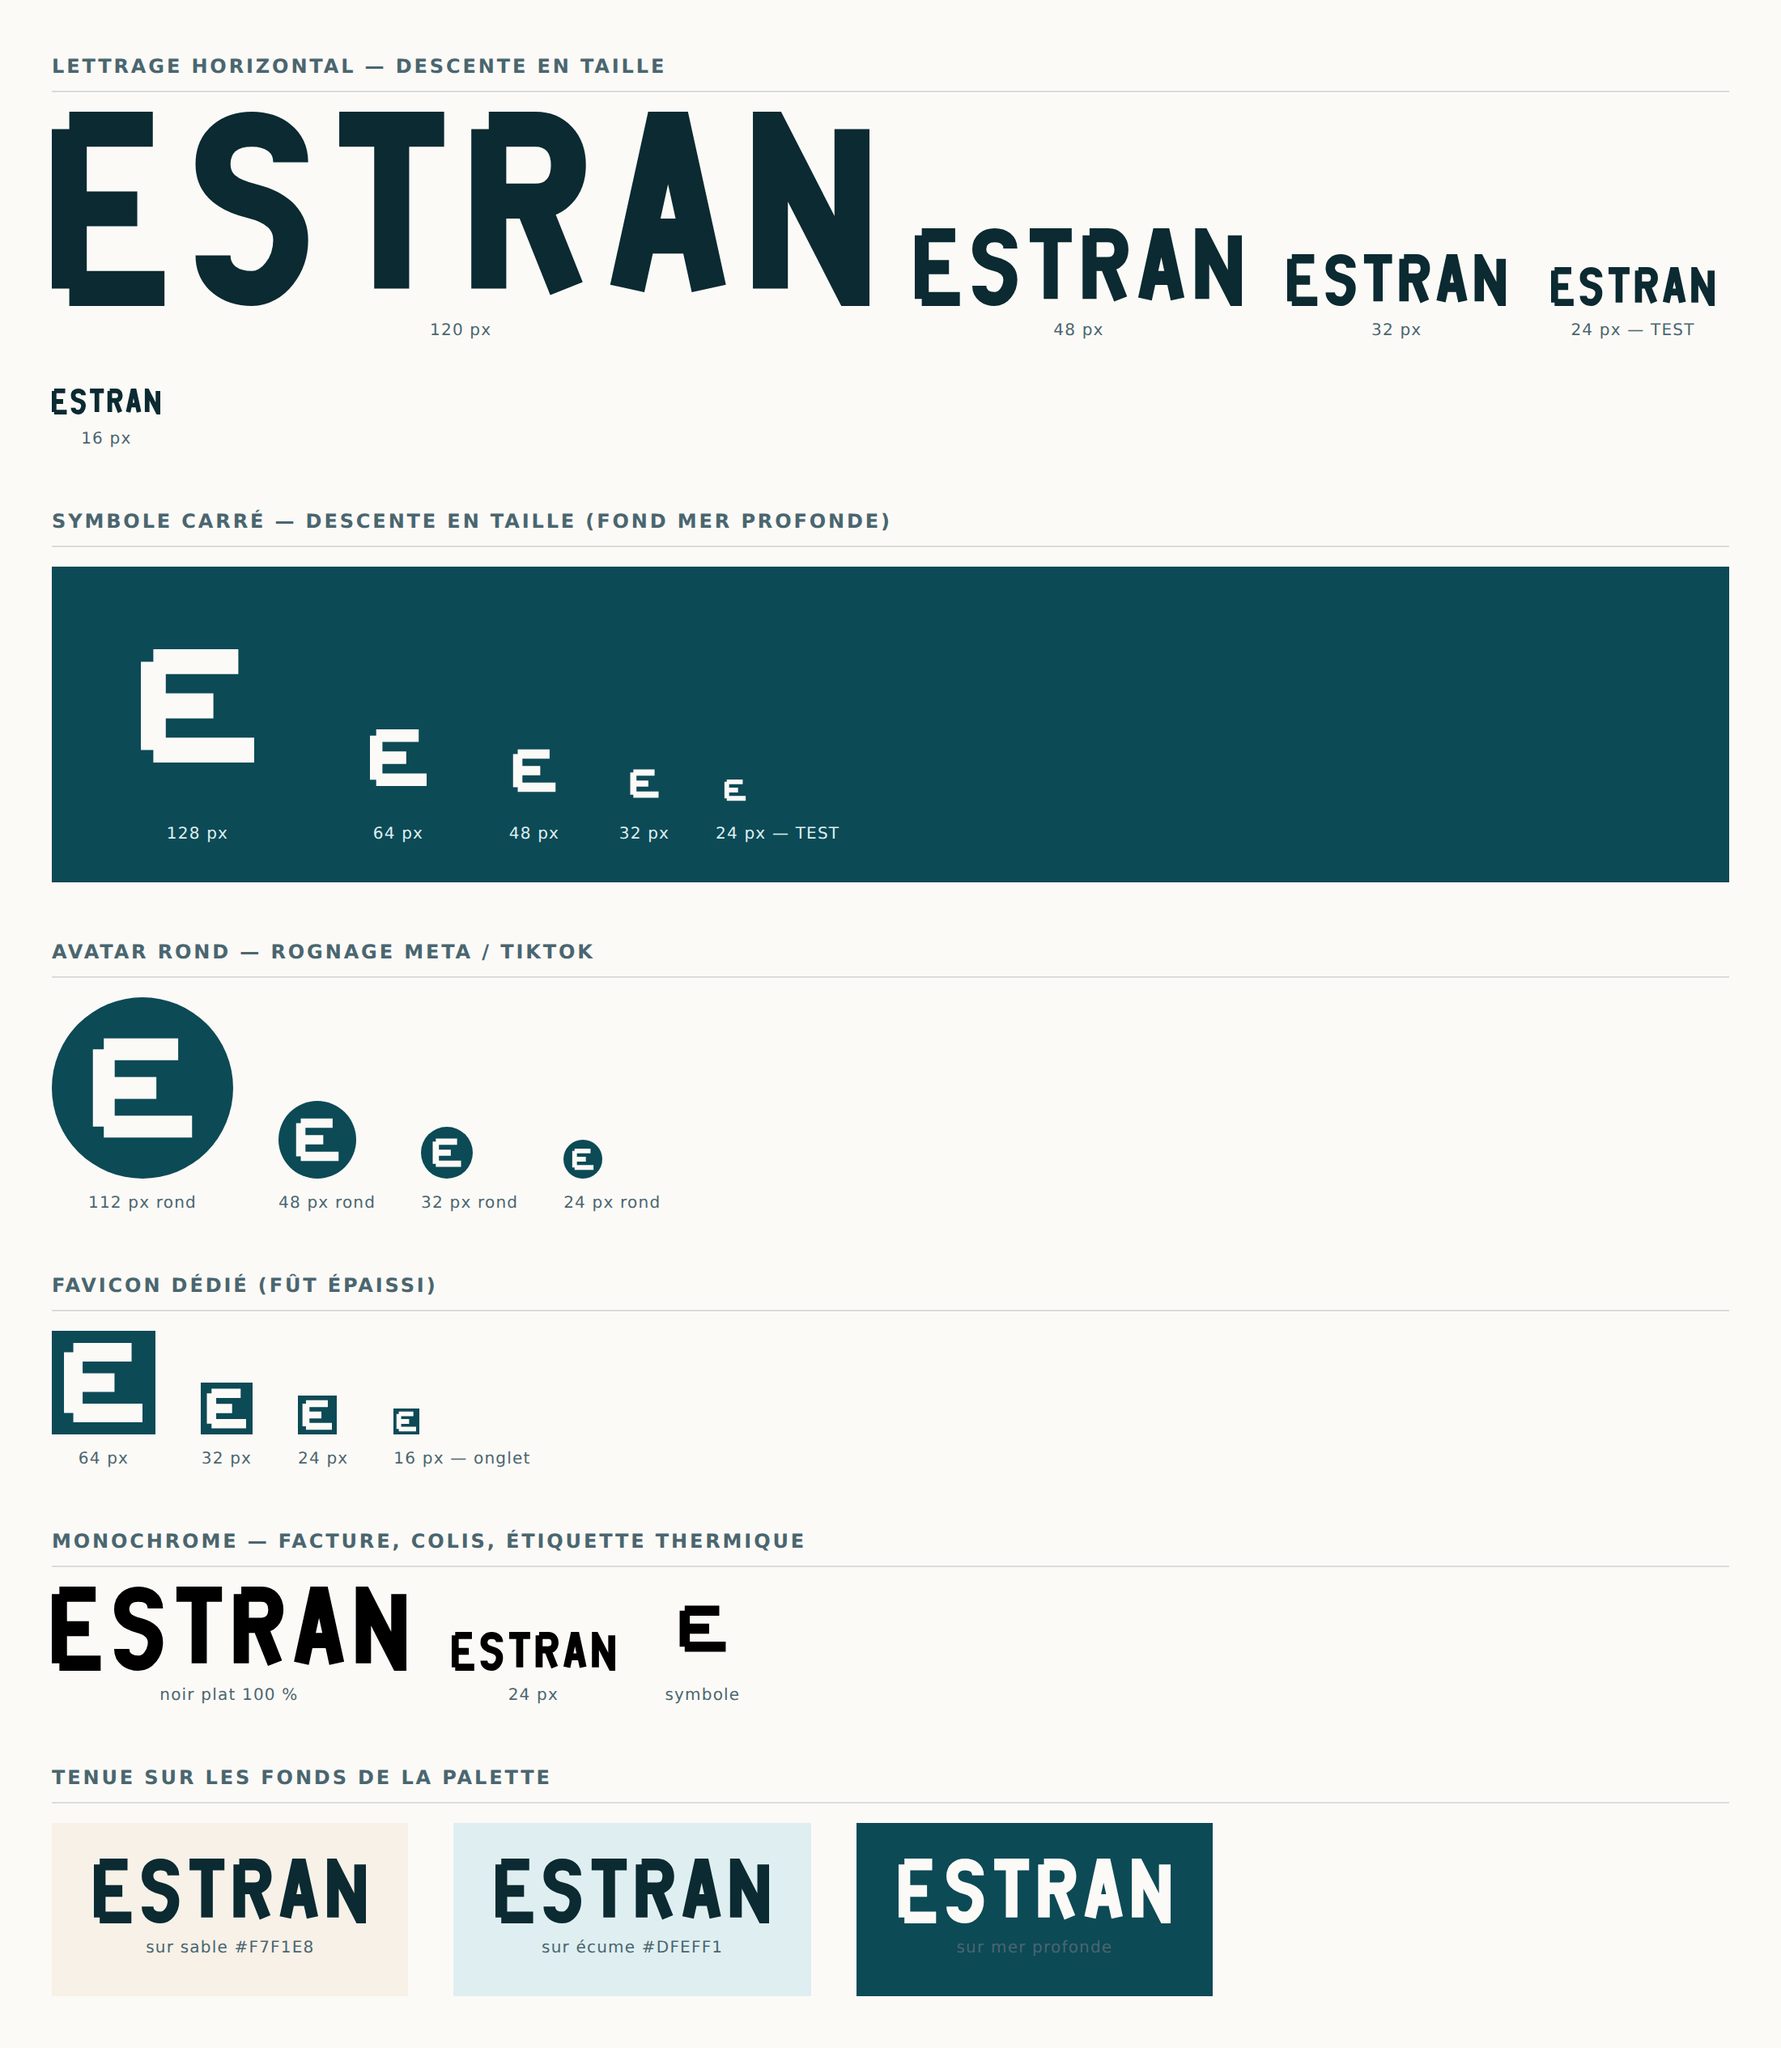
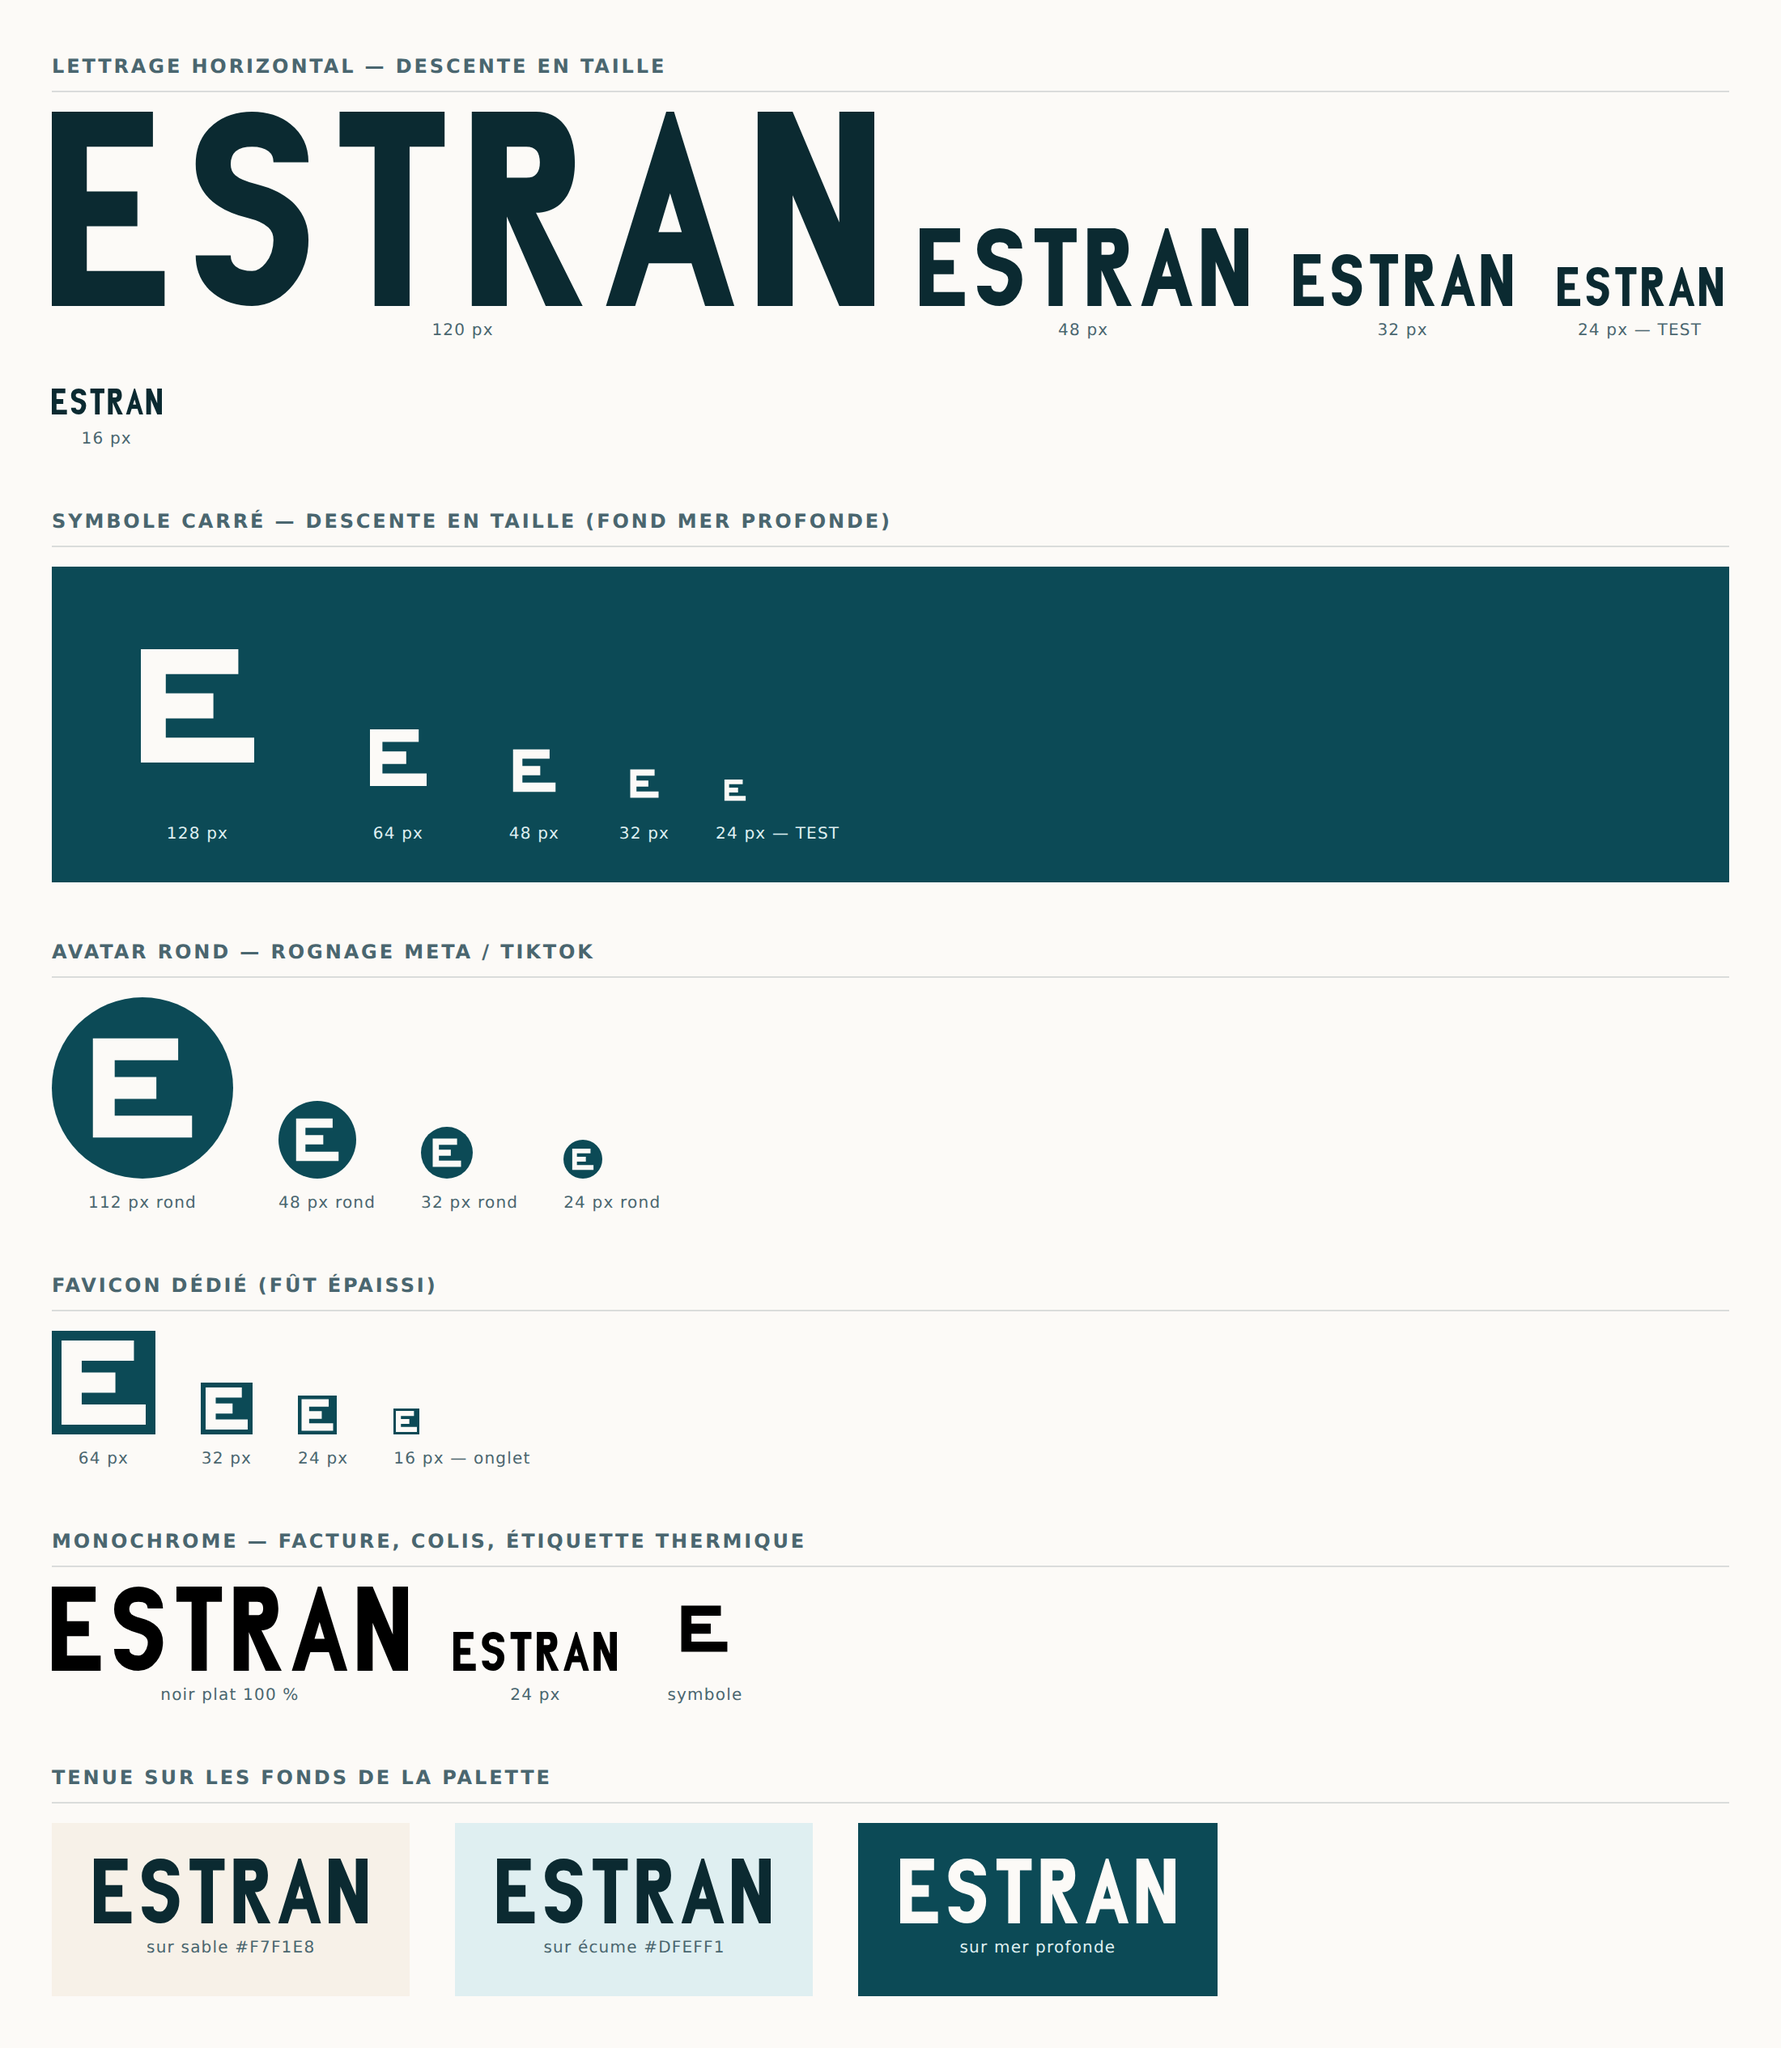
Lettrage Estran : contre-forme du R et triangle du A élargis
Second passage au banc : à 24 px la contre-forme du R se bouchait et le
triangle du A se refermait. R porté de 10 à 16 unités, A de 16 à 20.
Les trois SVG de lettrage et la planche de contrôle sont resynchronisés
— ce qui est livré est ce qui a été mesuré.

Ajout de estran-lettrage-source.py, source unique de la géométrie :
les six SVG s'en régénèrent, plus de retouche à la main dans six
fichiers qui divergent.

Claude-Session: https://claude.ai/code/session_01Kymz3FtdqsknZ7XHBmLYgb

diff --git a/marque/planche-controle.html b/marque/planche-controle.html
@@ -11,7 +11,7 @@
   .cell{text-align:center}
   .cell span{display:block;margin-top:8px;font-size:10px;color:var(--gris);letter-spacing:.06em}
   .dark{background:var(--mer);padding:22px 26px;border-radius:0}
-  .dark .cell span{color:#DFEFF1}
+  .dark span,.dark .cell span{color:#DFEFF1}
   img{display:block;image-rendering:auto}
   .rond{border-radius:50%;overflow:hidden}
   .sable{background:var(--sable);padding:22px 26px}

diff --git a/marque/estran-lettrage-source.py b/marque/estran-lettrage-source.py
@@ -1,0 +1,100 @@
+# -*- coding: utf-8 -*-
+"""Estran - source unique de la geometrie du lettrage.
+Grotesque condensee monolineaire tracee a la main.
+Hauteur de capitale 100, fut 18, terminaisons coupees d'equerre.
+E T R A N : polygones pleins (pieds plats garantis sur la ligne de base).
+S         : bande tracee (stroke 18) - ses terminaux tombent d'equerre car
+            les tangentes aux extremites sont verticales.
+Tous les SVG derivent d'ici : aucune divergence possible entre versions."""
+import os
+OUT = "/home/user/drop/marque"
+ENCRE, MER, IVOIRE = "#0B2A31", "#0C4A56", "#FCFAF7"
+
+# --- Lettres pleines ---------------------------------------------------------
+# Detail signature du E : bras 52 / 44 / 58. Ils s'allongent vers le bas,
+# comme la greve qui s'elargit quand la mer se retire.
+FILL = {
+ "E": (58, "M0,0 H52 V18 H18 V41 H44 V59 H18 V82 H58 V100 H0 Z"),
+ "T": (54, "M0,0 H54 V18 H36 V100 H18 V18 H0 Z"),
+ "N": (60, "M0,0 H18 L42,57 V0 H60 V100 H42 L18,43 V100 H0 Z"),
+ "R": (57, "M0,0 H33 C45,0 53,9 53,26 C53,43 45,52 33,52 L57,100 H38 L18,54 V100 H0 Z"
+            "M18,18 H28 C33,18 35,21 35,26 C35,31 33,34 28,34 H18 Z"),
+ "A": (66, "M0,100 L31,0 H35 L66,100 H51 L44,78 H22 L15,100 Z"
+            "M33,42 L39,62 H27 Z"),
+}
+# --- S : bande tracee --------------------------------------------------------
+S_LARGEUR = 58
+S_PATH = ("M49,26 C49,15 40,9 29,9 C18,9 9,15 9,27 C9,38 17,43 29,46 "
+          "C41,49 49,55 49,66 C49,79 40,91 29,91 C18,91 9,85 9,74")
+
+# Approches optiques. Resserrees apres T (vide sous la barre) et autour du A
+# et du N, dont les diagonales ouvrent deja l'espace en haut.
+APPROCHES = {"ES":16, "ST":16, "TR":14, "RA":12, "AN":12}
+
+def lettrage(couleur):
+    mot, x, out = "ESTRAN", 0.0, []
+    for i, ch in enumerate(mot):
+        if ch == "S":
+            w = S_LARGEUR
+            out.append(f'<path d="{S_PATH}" transform="translate({x:g},0)" fill="none" '
+                       f'stroke="{couleur}" stroke-width="18" stroke-linecap="butt"/>')
+        else:
+            w, d = FILL[ch]
+            out.append(f'<path d="{d}" transform="translate({x:g},0)" fill="{couleur}" '
+                       f'fill-rule="evenodd"/>')
+        x += w + (APPROCHES[mot[i]+mot[i+1]] if i < len(mot)-1 else 0)
+    return x, "\n    ".join(out)
+
+LARGEUR, _ = lettrage(ENCRE)
+
+# --- Symbole : le E pousse sur l'axe de largeur, 100x100, fut 22 -------------
+# Meme detail signature, amplifie : bras 86 / 64 / 100.
+def symbole(fut=22):
+    """Le E pousse sur l'axe de largeur : 100x100. Bras 86 / 64 / 100.
+    fut = epaisseur du trait ; le bras median reste centre sur la hauteur."""
+    h = fut / 2
+    return (f"M0,0 H86 V{fut} H{fut} V{50-h:g} H64 V{50+h:g} H{fut} "
+            f"V{100-fut} H100 V100 H0 Z")
+
+def ecrire(nom, contenu):
+    p = os.path.join(OUT, nom)
+    open(p, "w", encoding="utf-8").write(contenu)
+    print(f"{nom:38} {os.path.getsize(p):5} o")
+
+def svg_lettrage(couleur, note):
+    _, corps = lettrage(couleur)
+    return (f'<svg xmlns="http://www.w3.org/2000/svg" viewBox="0 0 {LARGEUR:g} 100" '
+            f'width="{LARGEUR:g}" height="100" role="img" aria-label="Estran">\n'
+            f'  <title>Estran</title>\n  <!-- {note} -->\n    {corps}\n</svg>\n')
+
+ecrire("estran-logo-horizontal.svg",
+       svg_lettrage(ENCRE, "Lettrage original trace a la main. Cap 100, fut 18. Encre #0B2A31 sur fond clair."))
+ecrire("estran-logo-horizontal-inverse.svg",
+       svg_lettrage(IVOIRE, "Version inverse : ivoire #FCFAF7 sur mer profonde #0C4A56 (pied de page)."))
+ecrire("estran-logo-mono.svg",
+       svg_lettrage("currentColor",
+       "Monochrome 1 couleur : herite de currentColor. Aucun fond, aucun degrade.\n"
+       "       Facture, bon de livraison, colis, tampon, etiquette thermique."))
+
+def svg_symbole(nom, taille, marge, fut, fond, trait, note):
+    ech = (taille - 2*marge) / 100
+    fond_rect = f'<rect width="{taille}" height="{taille}" fill="{fond}"/>\n  ' if fond else ''
+    sym = symbole(fut)
+    ecrire(nom,
+f'''<svg xmlns="http://www.w3.org/2000/svg" viewBox="0 0 {taille} {taille}" width="{taille}" height="{taille}" role="img" aria-label="Estran">
+  <title>Estran</title>
+  <!-- {note} -->
+  {fond_rect}<g transform="translate({marge},{marge}) scale({ech:g})"><path d="{sym}" fill="{trait}"/></g>
+</svg>
+''')
+
+# Avatar : les reseaux rognent en cercle. Cercle inscrit r=128 -> carre sur
+# inscrit de 181 (37,5..218,5). Le symbole tient dans 58..198 : sauf en rond.
+svg_symbole("estran-logo-compact.svg", 256, 58, 22, MER, IVOIRE,
+            "Avatar Meta / TikTok. Symbole loge dans le carre inscrit au cercle de rognage :\n       rien n'est coupe, ni en carre ni en rond.")
+svg_symbole("estran-logo-compact-mono.svg", 256, 58, 22, None, "currentColor",
+            "Symbole monochrome, sans fond : tampon, colis, marquage.")
+svg_symbole("estran-favicon.svg", 32, 3, 24, MER, IVOIRE,
+            "Favicon. Marge reduite a 3/32 et fut porte a 24 : a 16 px les trois barres\n       doivent rester separees, un fut de 22 les refermerait.")
+
+print(f"\nLettrage : {LARGEUR:g} x 100  (ratio {LARGEUR/100:.2f}:1)")
